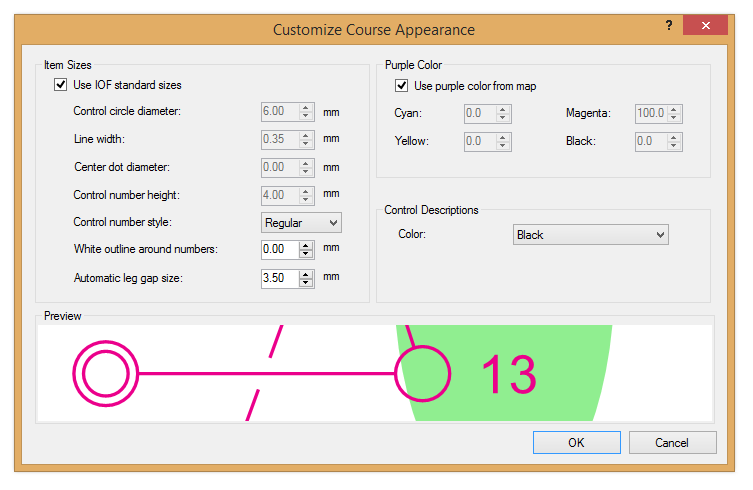
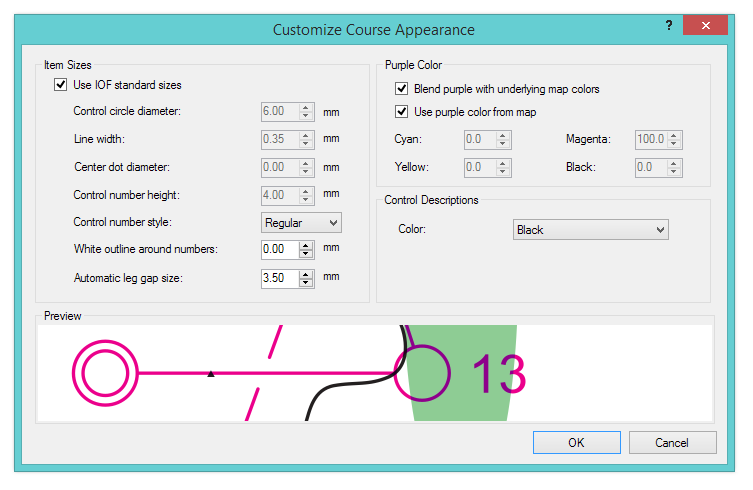
Help file changes.

diff --git a/doc/userdocs/Help/FilePrintCourses.htm b/doc/userdocs/Help/FilePrintCourses.htm
@@ -52,8 +52,11 @@ entire print area.</p>
     <p>
         <strong>Print Map Exchanges on Same Map</strong>: This setting only appears if a map exchange is present in the event. If this is checked, all parts of the course are printed together, overlapping. If unchecked, a separate map is printed for each part of the course. Typically this should be left unchecked unless you want to see all parts together for some reason.</p>
     <p>
-        <strong>Rasterize Before Printing</strong>: If checked, Purple Pen converts the map to an in-memory bitmap at the printer&#39;s resolution before sending the bitmap to the Windows printer driver. If unchecked, Purple Pen sends vector drawing commands to the Windows printer driver. If your print appears incorrect, printing doesn&#39;t work at all, or printing is extremely slow, checking this box may help. In most cases, leaving this unchecked should produce faster printing and smaller spool files. On Windows XP, or if the map is a bitmap or PDF, this box is always checked and cannot be changed.
-    </p>
+        <strong>Rasterize Before Printing</strong>: If checked, Purple Pen converts the map to an in-memory bitmap at the printer&#39;s resolution before sending the bitmap to the Windows printer driver. If unchecked, Purple Pen sends vector drawing commands to the Windows printer driver. It is recommended to leave this box checked.</p>
+    <p>
+        Unchecking this box may increase printing speed and reduce print spool size. Unchecking this box may be useful when using a PDF printer driver; however, the <a href="FileCreatePdfFiles.htm">File/Create PDF File</a> command is recommended over using a PDF printer driver.</p>
+    <p>
+        On Windows XP, or if the map is a bitmap or PDF, or if &quot;blend purple with underlying map colors&quot; is on, then this box is always checked and cannot be changed. </p>
 <h2>Other buttons</h2>
 <p><strong>Print</strong>: This button prints the courses on the selected 
 printer. The dialog box closes.</p>

diff --git a/doc/userdocs/Help/EventCustomizeCourseAppearance.htm b/doc/userdocs/Help/EventCustomizeCourseAppearance.htm
@@ -36,7 +36,8 @@ control numbers. The IOF standard is 4.0 mm.</p>
     <p><strong>White outline around numbers</strong>: If greater than zero, a white outline of the given width is placed around numbers to make them more visible against colored or complex backgrounds.
     A value between 0.1mm and 0.4mm usually works best.</p>
     <p><strong>Automatic leg gap size</strong>: If greater than zero, controls how much of a gap to automatically place when one leg crosses another leg. Set this to zero to disable placing automatic gaps in legs.</p>
-<p><strong>Use purple color from map</strong>: If this is checked, the color 
+<p><strong>Blend purple with underlying map colors</strong>: If this is checked, the course lines and control numbers that are printed in purple will be blended with the underlying map. This allows features (especially black features) in the map to show through the purple. In most cases, this produces a more readable map, and this setting is on by default. To prevent blending of control numbers only, set the &quot;white outline around numbers&quot; setting to a value greater than zero.</p>
+    <p><strong>Use purple color from map</strong>: If this is checked, the color 
 used for the course will be the same shade of Purple as used in the underlying 
 OCAD map. If an image is used instead of an OCAD map, or the Purple color cannot 
 be determined, a default purple color is used. Uncheck this to specify the 
